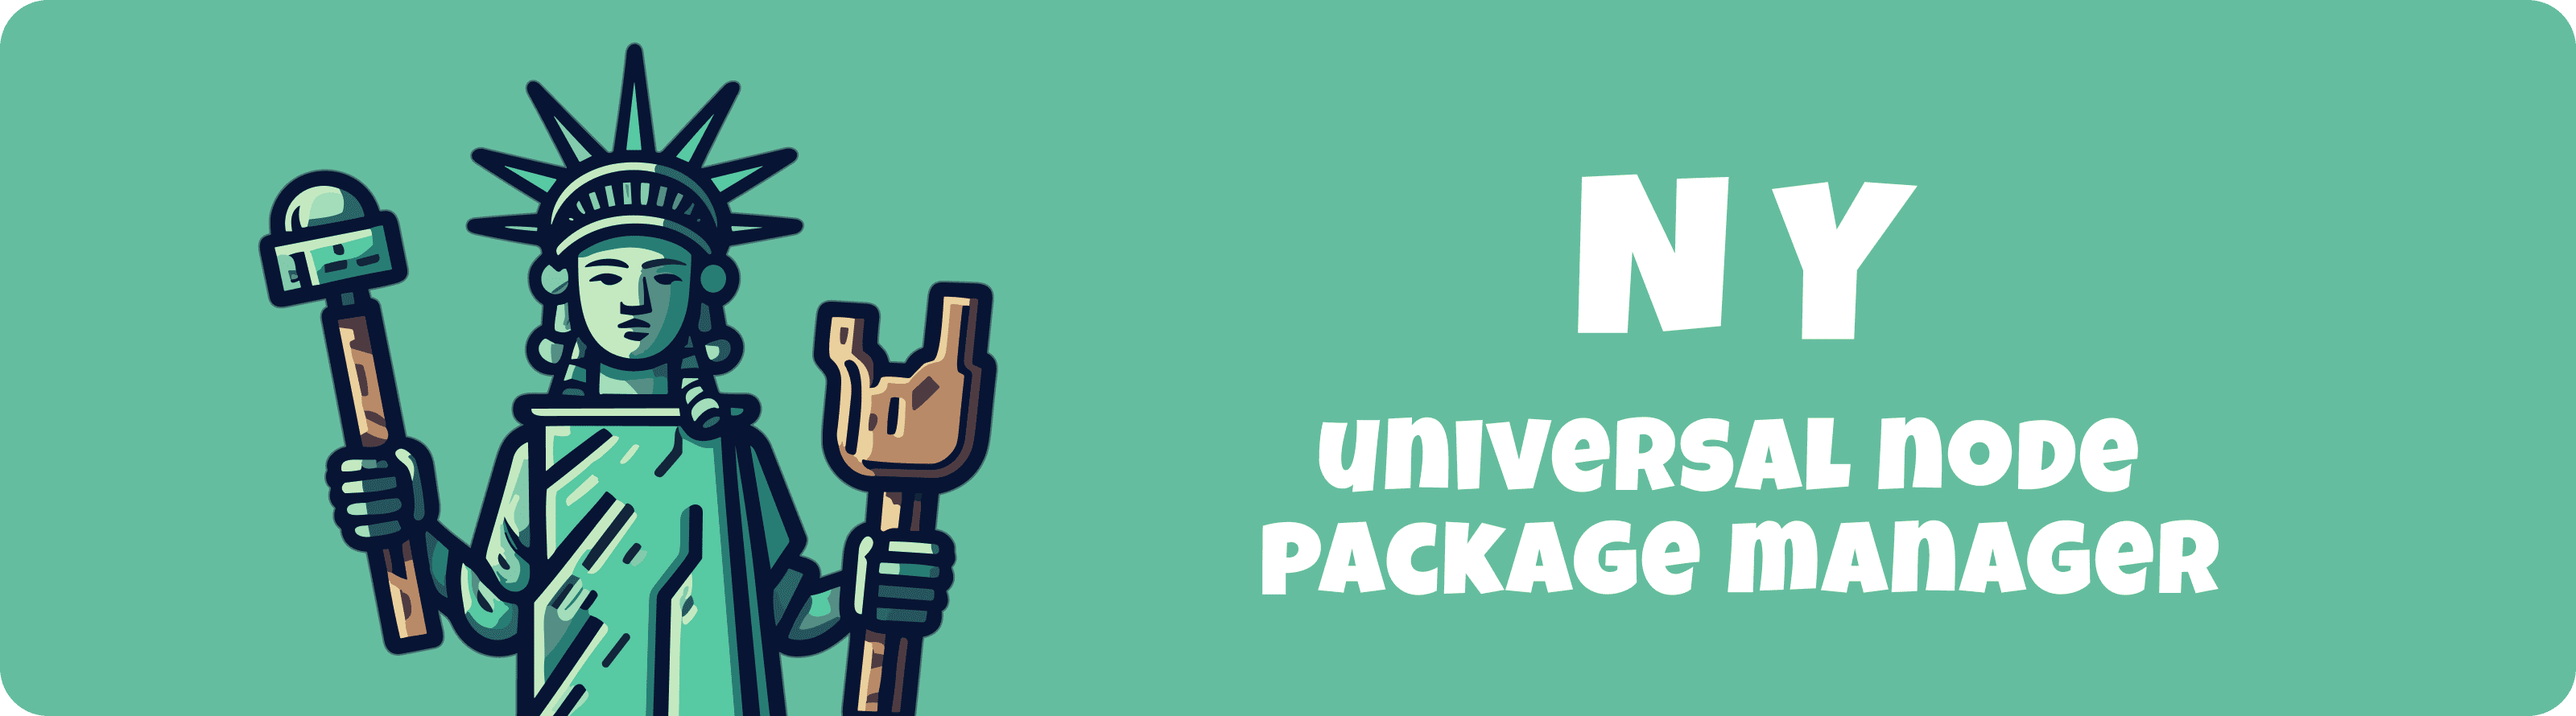
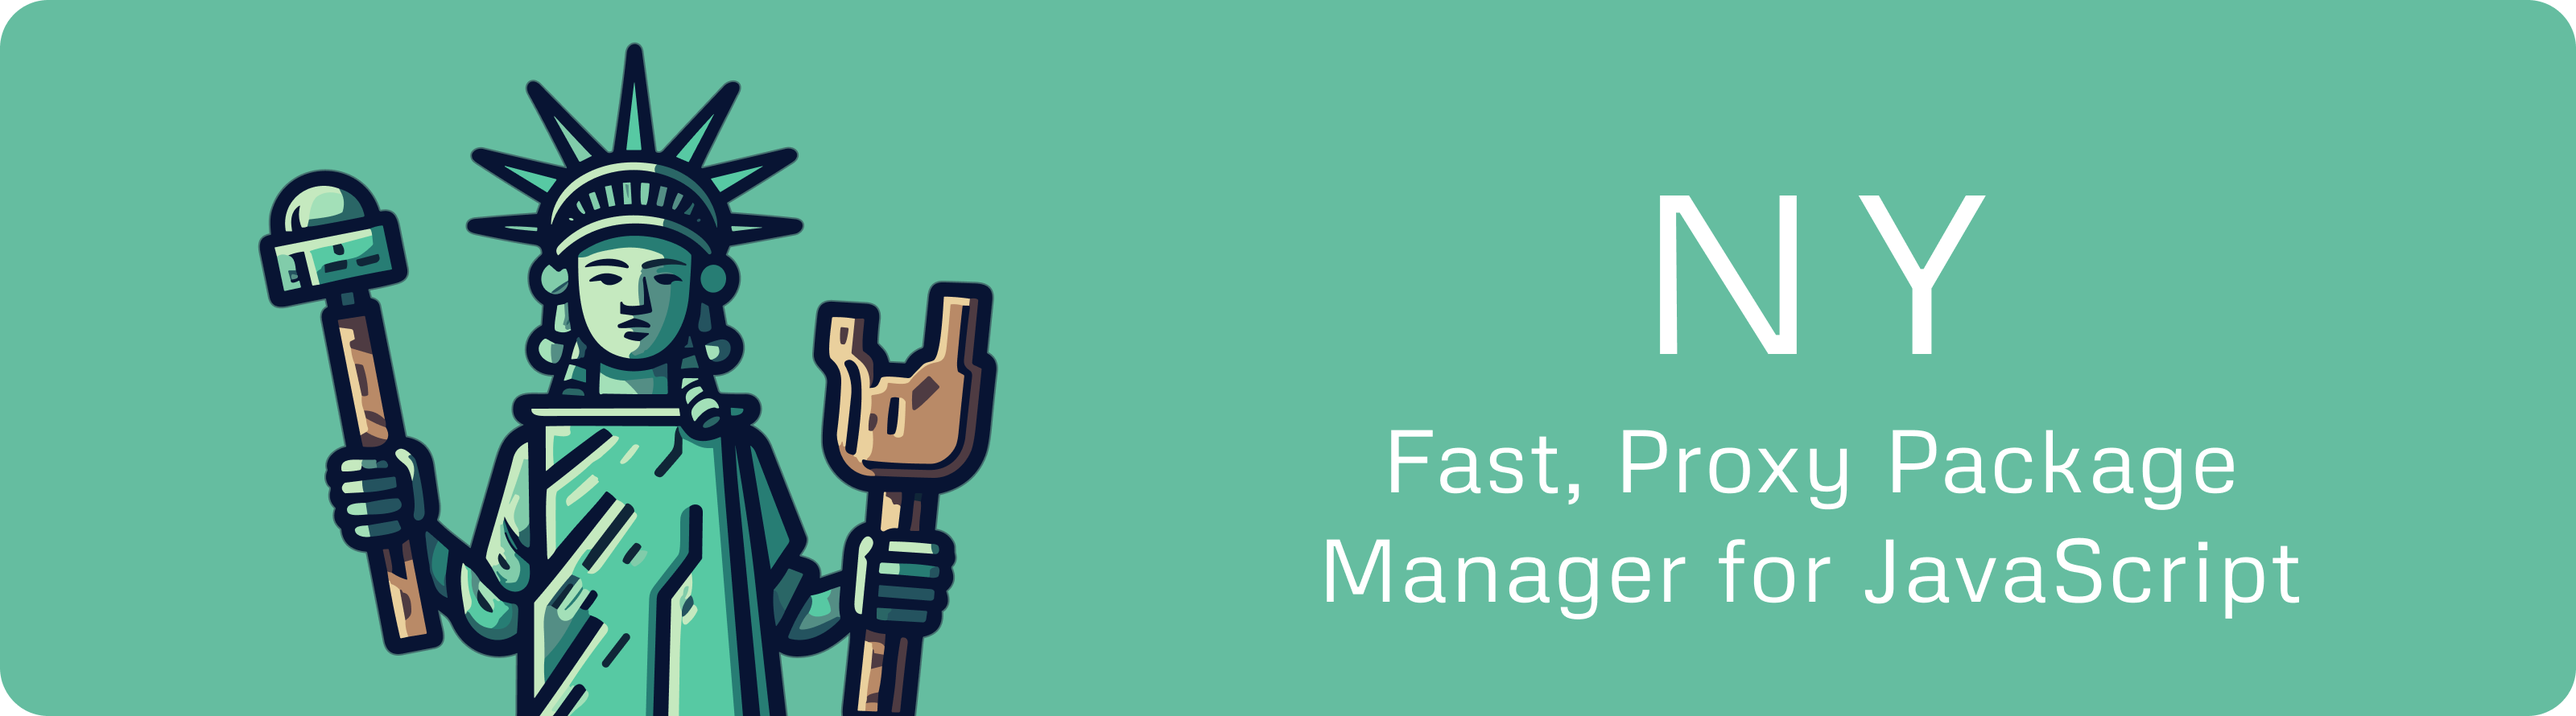
Refresh readme (#34)

Changed region(s): [[0.4688, 0.5764, 0.9062, 0.8798], [0.5938, 0.2427, 0.7812, 0.4854]]

diff --git a/README.md b/README.md
@@ -1,16 +1,15 @@
 <p align="center">
   <img src="assets/hero.png">
-  <h1 align="center">🗽 NY</h1>
-  <h3 align="center">Proxy Package Manager for JavaScript</h3>
-  <h3 align="center">Chooses the right package manager based on the lockfile.</h3>
-  <p align="center"><i><strong>n</strong></i>ode • <i><strong>y</strong></i>arn • pnpm</p>
+  <h2 align="center">🗽 NY - Fast, Proxy Package Manager for JavaScript</h2>
+  <h4 align="center">Chooses the right package manager and runtime based on the lockfile</h3>
+  <p align="center"><i><strong>n</strong></i>ode • <i><strong>y</strong></i>arn • pnpm • bun</p>
 </p>
 
 ## Features
 
-- <strong>Universal</strong> - Picks the right package manager for you based on the lockfile in your folder. Easy peasy!
+- <strong>Universal</strong> - Picks the right package manager and runtime based on the lockfile. `npm`, `bun`, `pnpm`, `yarn` - we got you covered!
 - <strong>Versatile</strong> - Handles the basics like installing all your dependencies, adding new packages, and kicking off scripts.
-- <strong>Speedy</strong> - Crafted in Rust to give you a quick ride. No extra node processes to slow you down!
+- <strong>Speedy</strong> - Crafted in Rust to give you a quick ride. When running scripts, it's actually faster than using PMs directly!
 - <strong>TypeScript-Ready</strong> - Adding a new dependency? Don't worry! It'll fetch any missing `@types` packages for you if needed.
 
 ## Usage
@@ -21,10 +20,6 @@ ny # installs all dependencies eq. to: yarn install
 
 ```sh
 ny add zod # installs zod package eq. to: yarn add zod
-```
-
-```sh
-ny add react # installs react package and attempts to automatically install missing typings (@types/react)
 ```
 
 ```sh
@@ -47,13 +42,21 @@ curl -fsSL https://raw.githubusercontent.com/krzkaczor/ny/main/install.sh | bash
 
 Get the newest release from [releases page](https://github.com/krzkaczor/ny/releases).
 
+## CLI
+
+For full documentation run `ny --help`.
+
+- `ny install` - trigger installing all dependencies. Aliased to: `ny`.
+- `ny add package` - add new dependency, supports flags like `--dev` and `--workspace-root`. Will automatically install missing TypeScript `@types` packages.
+- `ny run task` - runs a task with a given name or resolves a JS file in `node_modules/bin`. Will use node.js to execute it by default unless bun lockfile is present. Aliased to: `ny task`.
+
 ## Dive deeper
 
 ### Motivation
 
-In the world of JavaScript, there's a fun mix of package managers - npm, yarn, pnpm. Pick your poison. Programmers often switch between projects that use different PMs multiple times a day. Did you just typed `yarn` when the project uses `npm`? Well too bad -- you've wasted couple of seconds again. With 🗽NY, there's no guesswork. Just type `ny` and it picks the right manager for you. Handy, right?
+In the world of JavaScript, there's a fun mix of package managers - npm, yarn, pnpm. Pick your poison. With a rise of alternative runtimes like Bun or Deno the problem only gets worse. Programmers often switch between projects that use different PMs multiple times a day. Did you just typed `npm` when the project uses `bun`? Well too bad -- you've wasted couple of seconds again. With 🗽NY, there's no guesswork. Just type `ny` and it picks the right package manager and runtime for you. Handy, right?
 
-And here's the kicker: 🗽NY is snappier! Especially when running package scripts (like when you type `yarn test`). It's written in Rust and it zips through tasks about ~200ms faster by skipping spawning node process just to parse package.json. Sweet, huh?
+And here's the kicker: 🗽NY is faster! Especially when running package scripts (like when you type `yarn test`). It's written in Rust and it zips through tasks about ~200ms faster by avoiding spawning node processes just to parse `package.json`. Sweet, huh?
 
 Main sources of inspiration were [antfu/ni](https://github.com/antfu/ni) (but it's written in JS) and [egoist/dum](https://github.com/egoist/dum) (but it's only a task runner).
 
@@ -67,7 +70,7 @@ All contributions are welcomed! [Read contributing guide for more](./contributin
 
 ### Logo
 
-Logo should depict a statue of liberty (a symbol of <strong>N</strong>ew <strong>Y</strong>ork ;) ) holding tools. Midjourney prompt goes something like: `simple mascot, statue of liberty with tools, pixelart style`. Later [vectorizer.ai](https://vectorizer.ai) was used to get SVG out of bitmap.
+Logo should depict a statue of liberty (a symbol of <strong>N</strong>ew <strong>Y</strong>ork ;) ) holding tools. Midjourney prompt goes something like: `simple mascot, statue of liberty holding tools, pixelart style`. Later [vectorizer.ai](https://vectorizer.ai) was used to get SVG out of bitmap.
 
 I know it's not perfect and if you figure out a better prompt let me know!
 

diff --git a/CONTRIBUTING.md b/CONTRIBUTING.md
@@ -20,3 +20,8 @@ bun test
 - `common/cli` - this is where cli args are parsed. We use a combination of clippy and hand written pre-processing to deal with some edge cases,
 - `common/fs` - minimal fs abstraction, used to make writing unit tests possible,
 - `common/execute` - minimal spawn abstraction, used to make writing unit tests possible,
+- [e2e tests](./test-e2e/README.md)
+
+## Changelog management
+
+We use [changesets](https://github.com/changesets/changesets) to manage changes. When you're done with a **user facing change**, run `ny changeset add` in the root of the project to kick off a CLI for adding a new changeset. Describe your change and commit the resulting file.
